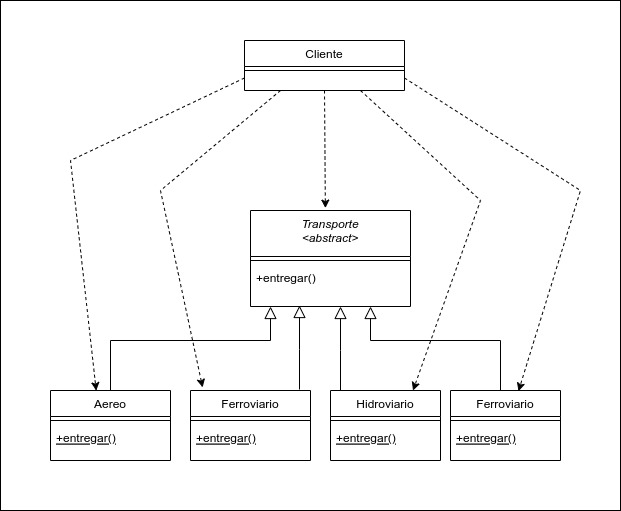
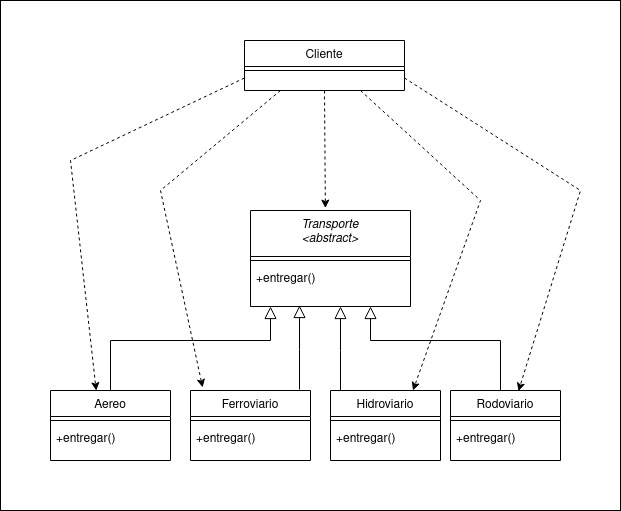
Factory Method - Diagramas correções

diff --git a/factory_method/java/antes_do_padrao/Cliente.java b/factory_method/java/antes_do_padrao/Cliente.java
@@ -39,8 +39,7 @@ public class Cliente {
         System.out.println("### Ordem de transporte - antes do padrão ###");
         
         System.out.println("");
-        Transporte aereo = ordemDeTransporte(Transporte.FERROVIARIO);
-        aereo.entregar();
+        Transporte aereo = ordemDeTransporte(Transporte.AEREO);
         System.out.println(aereo.toString());
 
         System.out.println("");
